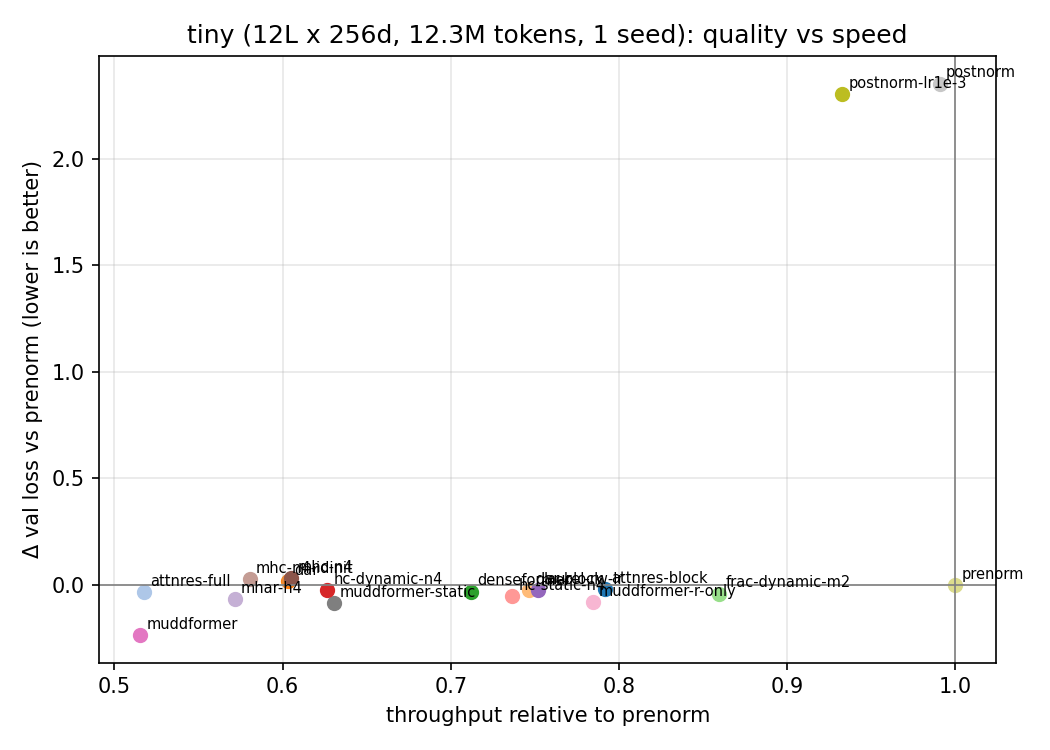
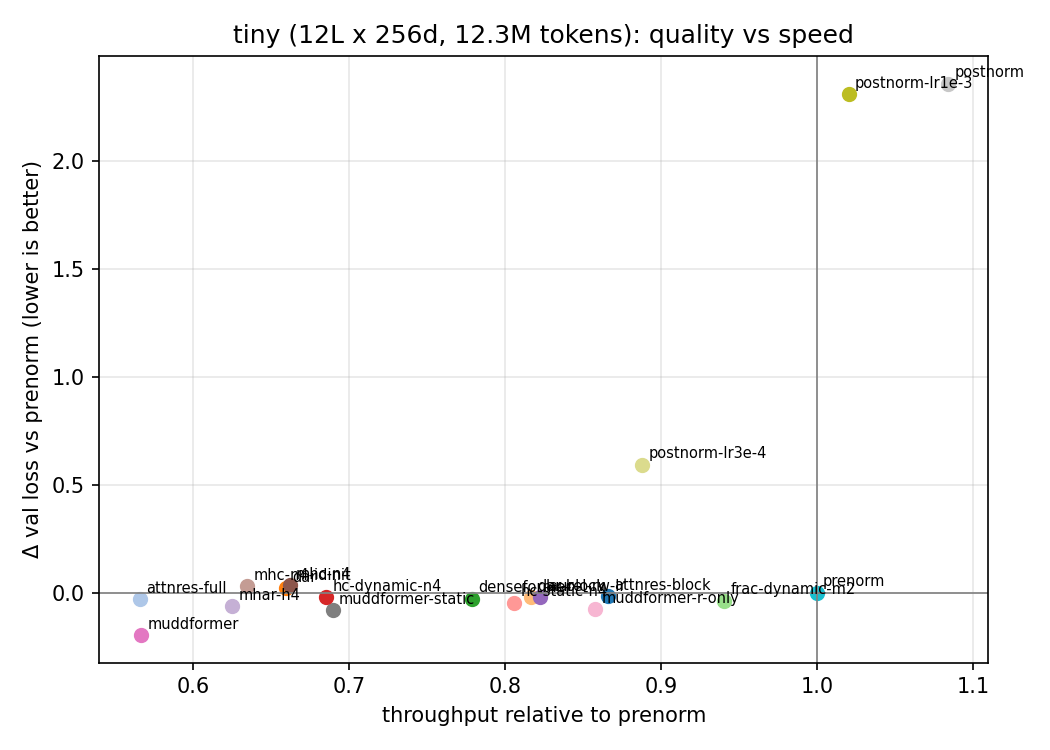
results: tiny with 3 seeds for prenorm/MUDD; GPU scaling size S (0.79B tokens)

diff --git a/results/tiny/results.md b/results/tiny/results.md
@@ -1,20 +1,21 @@
 | # | variant | val loss | Δ vs prenorm | params (non-emb) | +conn params | throughput (rel.) | 
 |---|---|---|---|---|---|---|
-| 1 | muddformer | 5.0896 | -0.2356 | 9.86M | 217.5K | 0.52× |
-| 2 | muddformer-static | 5.2387 | -0.0865 | 9.65M | 0.3K | 0.63× |
-| 3 | muddformer-r-only | 5.2447 | -0.0804 | 9.84M | 202.5K | 0.78× |
-| 4 | mhar-h4 | 5.2574 | -0.0678 | 9.65M | 12.8K | 0.57× |
-| 5 | hc-static-n4 | 5.2734 | -0.0518 | 9.64M | 0.6K | 0.74× |
-| 6 | frac-dynamic-m2 | 5.2836 | -0.0416 | 9.66M | 21.8K | 0.86× |
-| 7 | attnres-full | 5.2918 | -0.0334 | 9.65M | 12.8K | 0.52× |
-| 8 | denseformer | 5.2929 | -0.0322 | 9.64M | 0.1K | 0.71× |
-| 9 | dar-block | 5.2995 | -0.0257 | 9.65M | 12.3K | 0.75× |
-| 10 | hc-dynamic-n4 | 5.3001 | -0.0250 | 9.69M | 49.8K | 0.63× |
-| 11 | laurel-rw-lr | 5.3006 | -0.0245 | 9.84M | 196.7K | 0.75× |
-| 12 | attnres-block | 5.3046 | -0.0205 | 9.65M | 12.8K | 0.79× |
-| 13 | prenorm | 5.3252 | +0.0000 | 9.64M | 0.0K | 1.00× |
-| 14 | dar | 5.3408 | +0.0156 | 9.65M | 12.3K | 0.60× |
-| 15 | mhc-n4-idinit | 5.3507 | +0.0255 | 10.23M | 594.6K | 0.58× |
-| 16 | mhc-n4 | 5.3551 | +0.0300 | 10.23M | 594.6K | 0.61× |
-| 17 | postnorm-lr1e-3 | 7.6286 | +2.3035 | 9.64M | 6.1K | 0.93× |
-| 18 | postnorm | 7.6768 | +2.3517 | 9.64M | 6.1K | 0.99× |
+| 1 | muddformer | 5.1240 ± 0.0333 | -0.1964 | 9.86M | 217.5K | 0.57× |
+| 2 | muddformer-static | 5.2387 ± 0.0000 | -0.0818 | 9.65M | 0.3K | 0.69× |
+| 3 | muddformer-r-only | 5.2447 ± 0.0000 | -0.0757 | 9.84M | 202.5K | 0.86× |
+| 4 | mhar-h4 | 5.2574 ± 0.0000 | -0.0631 | 9.65M | 12.8K | 0.63× |
+| 5 | hc-static-n4 | 5.2734 ± 0.0000 | -0.0470 | 9.64M | 0.6K | 0.81× |
+| 6 | frac-dynamic-m2 | 5.2836 ± 0.0000 | -0.0369 | 9.66M | 21.8K | 0.94× |
+| 7 | attnres-full | 5.2918 ± 0.0000 | -0.0286 | 9.65M | 12.8K | 0.57× |
+| 8 | denseformer | 5.2929 ± 0.0000 | -0.0275 | 9.64M | 0.1K | 0.78× |
+| 9 | dar-block | 5.2995 ± 0.0000 | -0.0209 | 9.65M | 12.3K | 0.82× |
+| 10 | hc-dynamic-n4 | 5.3001 ± 0.0000 | -0.0203 | 9.69M | 49.8K | 0.69× |
+| 11 | laurel-rw-lr | 5.3006 ± 0.0000 | -0.0198 | 9.84M | 196.7K | 0.82× |
+| 12 | attnres-block | 5.3046 ± 0.0000 | -0.0158 | 9.65M | 12.8K | 0.87× |
+| 13 | prenorm | 5.3204 ± 0.0055 | +0.0000 | 9.64M | 0.0K | 1.00× |
+| 14 | dar | 5.3408 ± 0.0000 | +0.0204 | 9.65M | 12.3K | 0.66× |
+| 15 | mhc-n4-idinit | 5.3507 ± 0.0000 | +0.0303 | 10.23M | 594.6K | 0.63× |
+| 16 | mhc-n4 | 5.3551 ± 0.0000 | +0.0347 | 10.23M | 594.6K | 0.66× |
+| 17 | postnorm-lr3e-4 | 5.9128 ± 0.0000 | +0.5924 | 9.64M | 6.1K | 0.89× |
+| 18 | postnorm-lr1e-3 | 7.6286 ± 0.0000 | +2.3082 | 9.64M | 6.1K | 1.02× |
+| 19 | postnorm | 7.6768 ± 0.0000 | +2.3564 | 9.64M | 6.1K | 1.08× |

diff --git a/results/scaling_gpu_s/results.md b/results/scaling_gpu_s/results.md
@@ -1,0 +1,10 @@
+| # | variant | val loss | Δ vs prenorm | params (non-emb) | +conn params | throughput (rel.) | peak mem | 
+|---|---|---|---|---|---|---|---|
+| 1 | muddformer | 3.3324 | -0.1115 | 38.97M | 414.1K | 0.37× | 24.2 GB |
+| 2 | hc-dynamic-n4 | 3.3740 | -0.0699 | 38.65M | 98.9K | 0.48× | 24.8 GB |
+| 3 | mhc-n4 | 3.3818 | -0.0621 | 39.74M | 1188.5K | 0.49× | 25.1 GB |
+| 4 | mhar-h4 | 3.4013 | -0.0426 | 38.57M | 25.6K | 0.23× | 24.2 GB |
+| 5 | attnres-full | 3.4032 | -0.0407 | 38.57M | 25.6K | 0.40× | 24.2 GB |
+| 6 | hc-static-n4 | 3.4085 | -0.0355 | 38.55M | 0.6K | 0.57× | 24.2 GB |
+| 7 | frac-dynamic-m2 | 3.4194 | -0.0245 | 38.59M | 43.3K | 0.76× | 24.2 GB |
+| 8 | prenorm | 3.4439 | +0.0000 | 38.55M | 0.0K | 1.00× | 24.2 GB |
